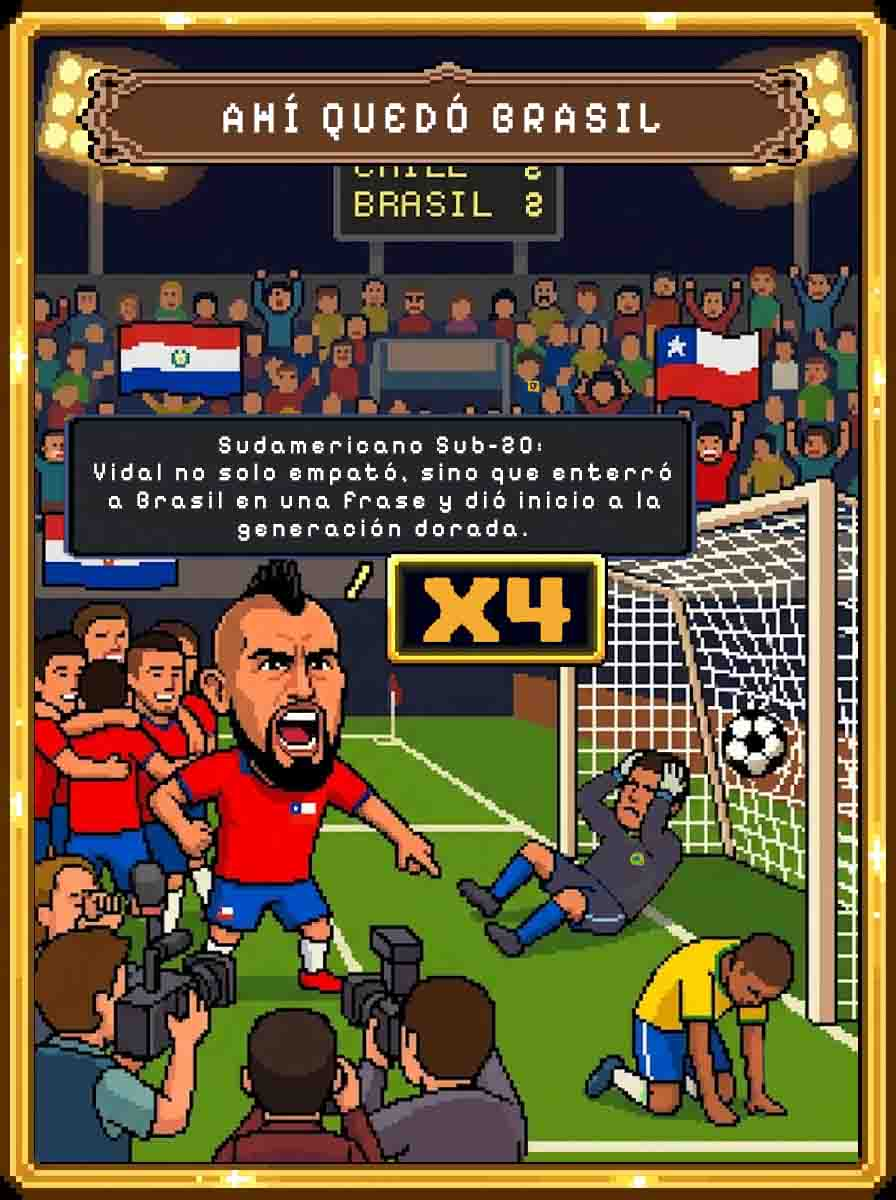
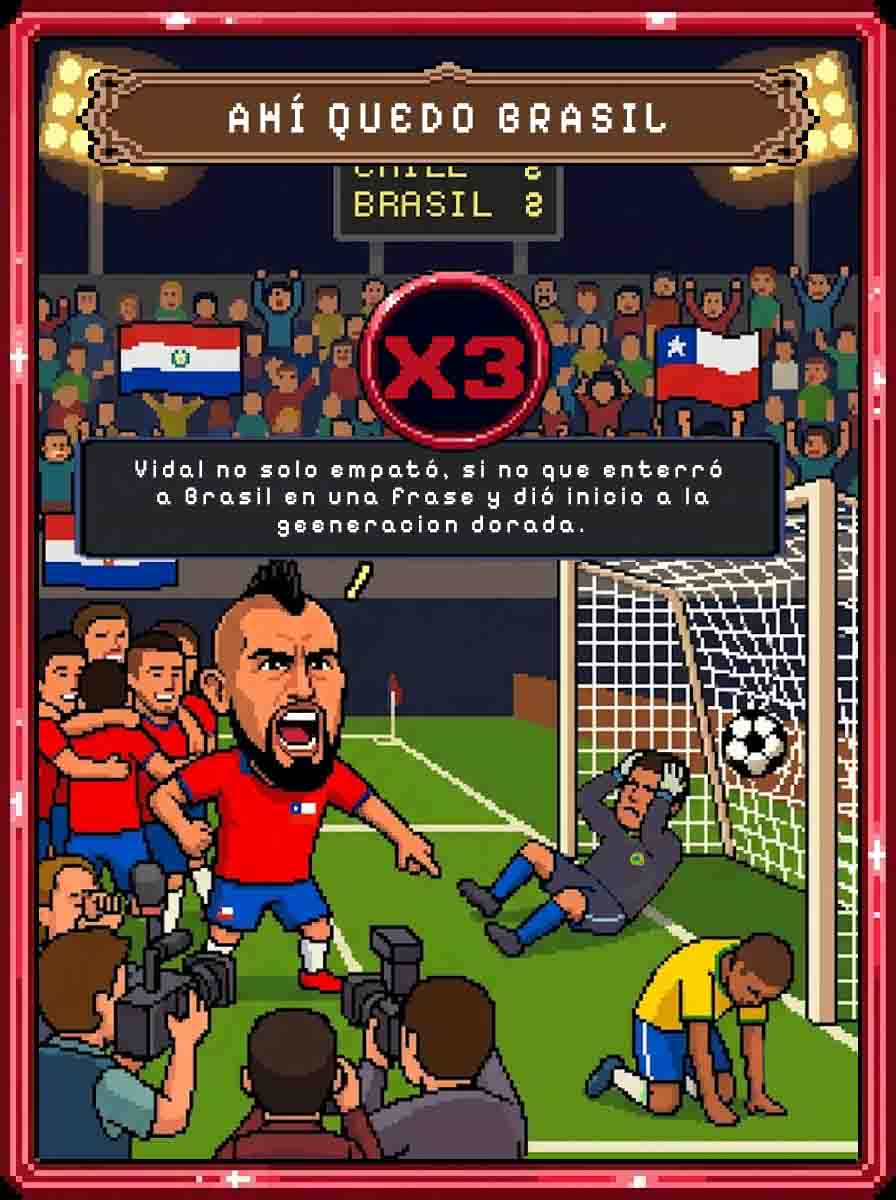
cambio de png a jpg

Changed region(s): [[0.0, 0.0, 1.0, 1.0], [0.25, 0.0617, 0.75, 0.1233], [0.1562, 0.4625, 0.1875, 0.4933]]

diff --git a/src/components/Perfil.jsx b/src/components/Perfil.jsx
@@ -25,7 +25,7 @@ function LightboxCarta({ carta, onCerrar }) {
       <div style={{ maxWidth:"340px", width:"100%", textAlign:"center" }}
         onClick={(e) => e.stopPropagation()}>
         <img
-          src={`/cartas/${carta.slug}.png`}
+          src={`/cartas/${carta.slug}.jpg`}
           alt={carta.nombre}
           style={{
             width:"100%", maxWidth:"280px",
@@ -281,7 +281,7 @@ export default function Perfil({ onVolver }) {
         {desbloq ? (
           <>
             <img
-              src={`/cartas/${carta.slug}.png`}
+              src={`/cartas/${carta.slug}.jpg`}
               alt={carta.nombre}
               style={{
                 width: "60px",